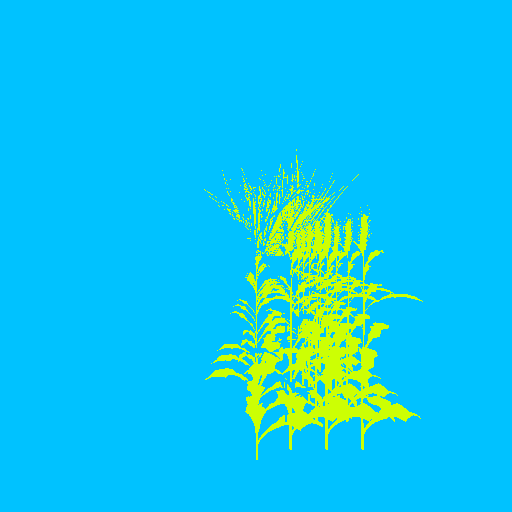
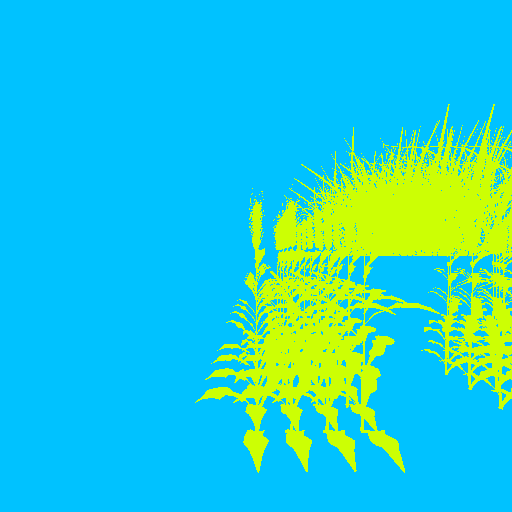
fix: ground placed in camera view

Changed region(s): [[0.375, 0.2188, 1.0, 0.9375], [0.7812, 0.9062, 0.8125, 0.9375], [0.4688, 0.5312, 0.5, 0.5625]]

diff --git a/src/controllers/crop_controller.py b/src/controllers/crop_controller.py
@@ -4,6 +4,7 @@ from mathutils import Vector
 
 from .light_controller import LightController
 from .segmentation import SegmentationClass
+from .ground_controller import GroundController
 
 class CropController:
 
@@ -29,6 +30,7 @@ class CropController:
             "stage3" : "stage3.009",
             "stage2" : "stage2.009",
             "stage1" : "stage1.009",
+            "ground" : "stage9.ground"
         }
         try:
             self.generation_seed = config["generation_seed"]
@@ -44,6 +46,8 @@ class CropController:
 
         lightcon = LightController()
         lightcon.add_light()
+        groundcon = GroundController()
+        groundcon.get_ground_stages()
 
         self.setup_crop_positions()
 

diff --git a/src/controllers/ground_controller.py b/src/controllers/ground_controller.py
@@ -1,4 +1,5 @@
 import bpy
+import mathutils
 
 class GroundController:
     def __init__(self):
@@ -10,4 +11,6 @@ class GroundController:
         ground_stages = [obj for obj in bpy.data.objects if obj.name.startswith('stage') and obj.name.endswith('.ground')]
         for obj in ground_stages:
             self.collection.objects.link(obj)
-            obj.location = (0, 0, 0)
+            obj.location = (1, 0.5, -5)
+            obj.scale = mathutils.Vector((1, 3, 1))
+        

diff --git a/src/launch.py b/src/launch.py
@@ -7,6 +7,7 @@ from controllers.yaml_reader import YamlReader
 from renderers.scene_renderer import SceneRenderer
 
 
+
 class TyperLaunchAPI:
     """
     This class is used to launch the application using the Typer library.
@@ -27,6 +28,7 @@ class TyperLaunchAPI:
         cropcon = CropController(config, collection)
         scenerender = SceneRenderer(config, collection)
         cropcon.setup_crops()
+
 
 
         scenerender.render_scene()
